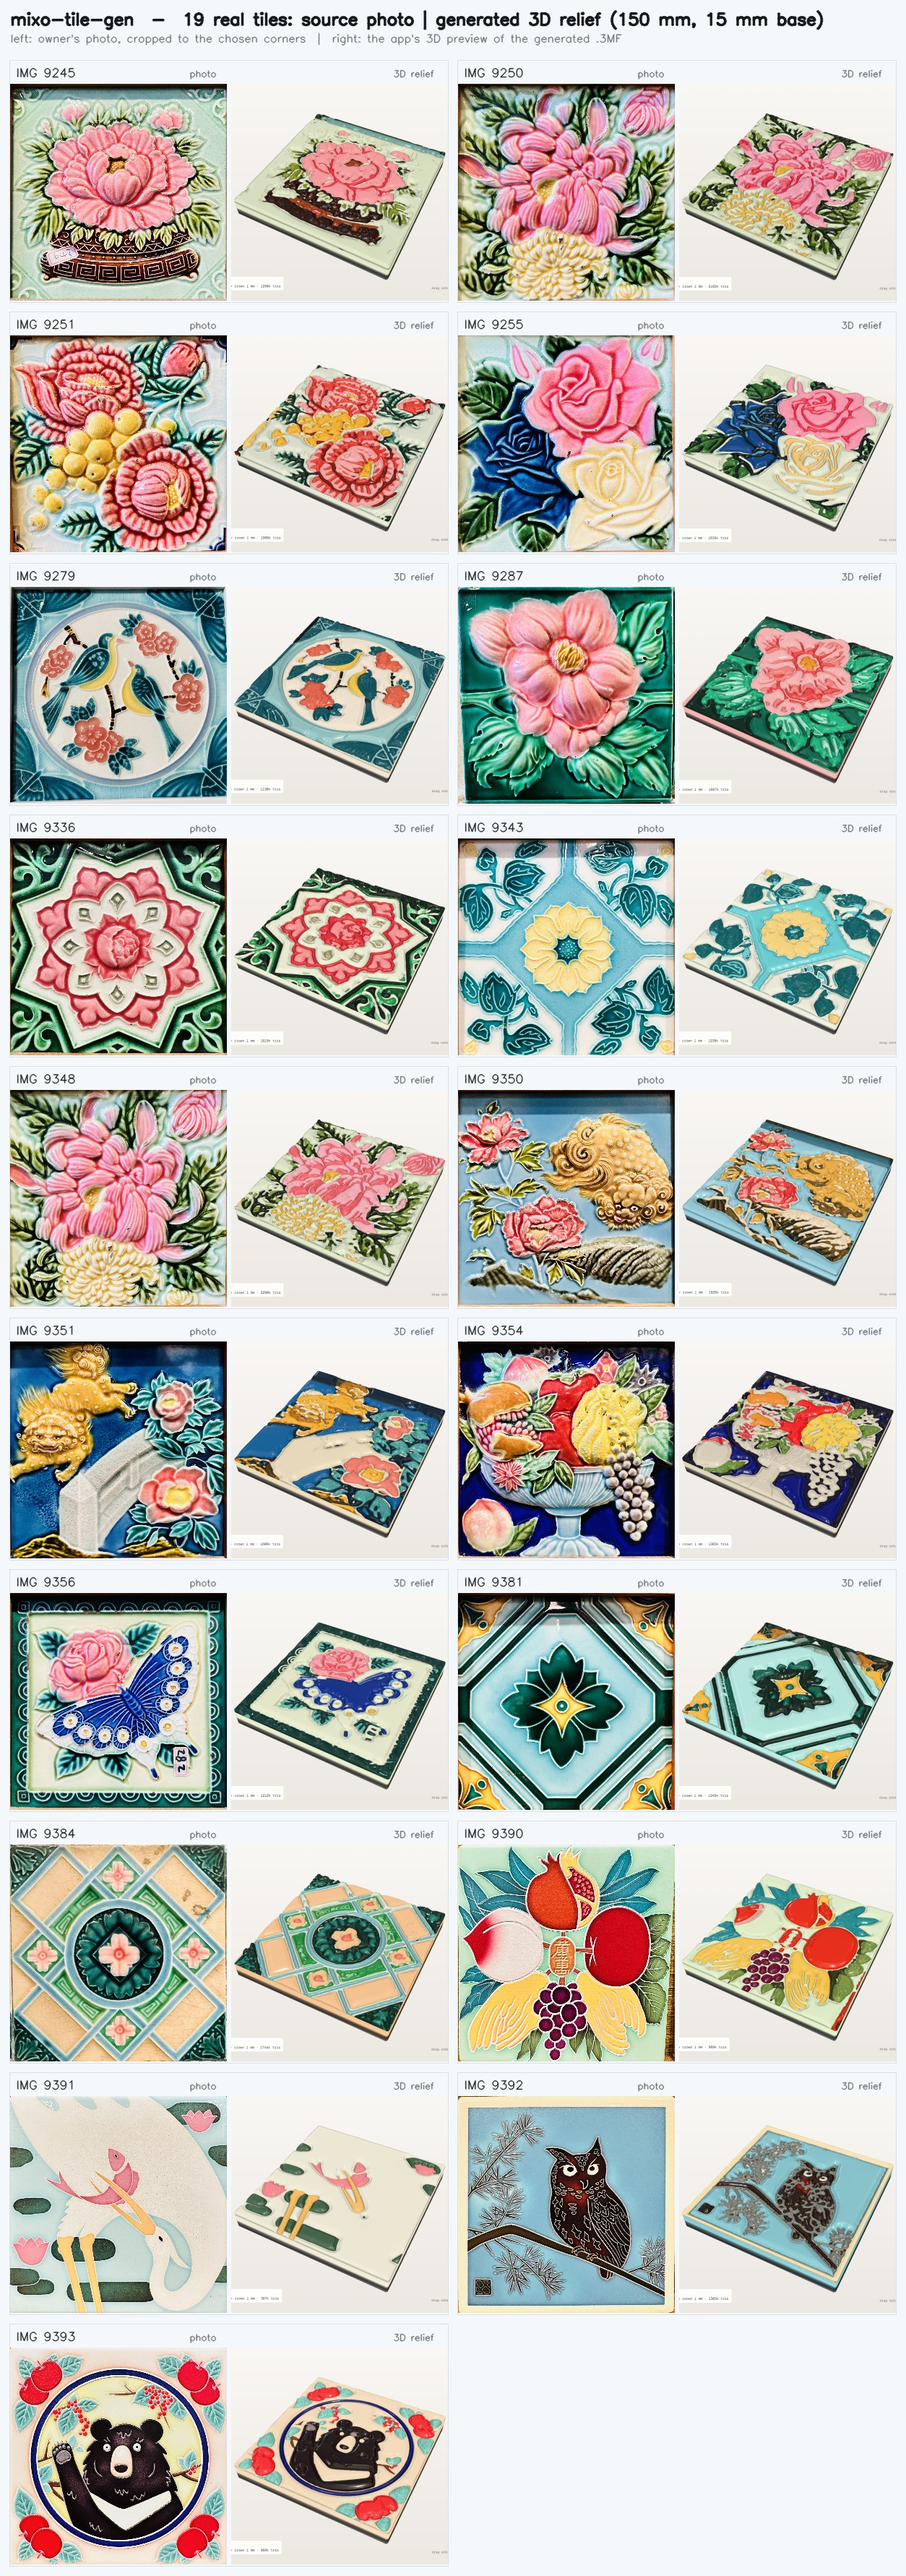
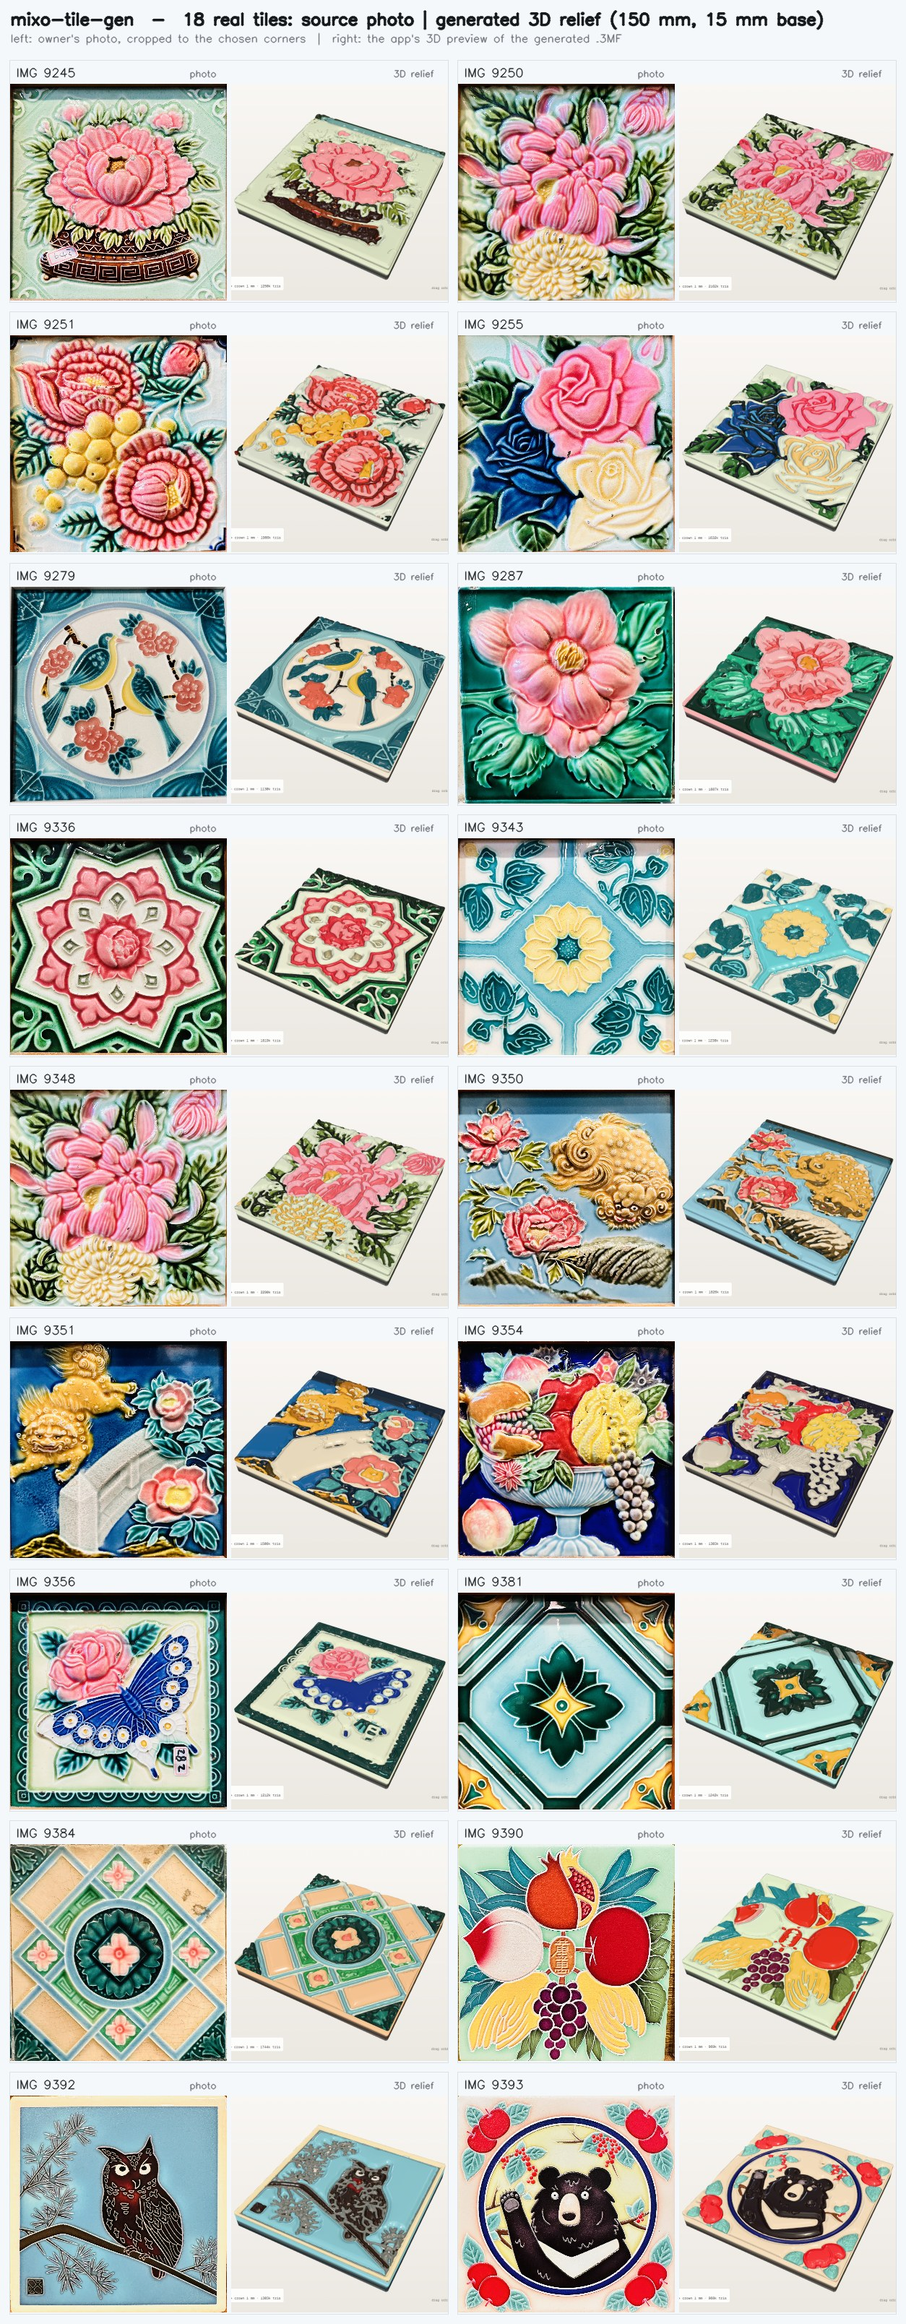
Remove IMG_9391 from the fixture set (owner); corners confirmed; table now 18 tiles
Claude-Session: https://claude.ai/code/session_01G1L4cLyWYamcJ8dUm4iyXZ

diff --git a/HANDOFF.md b/HANDOFF.md
@@ -97,6 +97,8 @@ The owner doesn't care about slicer testing. Visual realism is the goal.
 
 ## 4. Status log (newest first)
 
+- **2026-10-15, owner decisions:** corners for the fixture set confirmed by the owner; IMG_9391 (heron) removed from the set at the owner's request (now 18 photos); old empty GCP project `tw-tile-gen` (mixoadrian) deleted (DELETE_REQUESTED, recoverable 30 days).
+
 - **2026-10-15, textured exports + command line:** new formats `3mftex` (3MF Materials-extension texture2dgroup per corner; slicer part table unchanged so it prints in glaze colours) and `glbtex` (trimesh PBR baseColorTexture); pad stays plain. `tests/check_formats.py` checks all (IMG_9255: corner-UV error 0.00001; three.js 3MFLoader renders the textured 3MF). App menu groups formats by Glaze colours / Photo texture. **`scripts/mixo.py`** (+ `mixo.bat`, `mixo.sh`): command line without the web page, local (re-runs itself in `.venv`) or `--server URL`, `--corners`, `--corners-json` batch, `--set name=value`; tested local single + batch. README: "Without the web page" guide + with/without-UI × online/local table. Live site verified after the memory fix: 2 tiles in a row OK on cloud.
 
 - **2026-10-15, new fixture set + Photo preview + cloud memory/speed:**
@@ -219,9 +221,7 @@ The owner doesn't care about slicer testing. Visual realism is the goal.
 ## 5. In-flight / next steps
 
 **Owner's open requests (2026-10-15), in order:**
-1. Owner to confirm the 19 fixture corners (sheet sent; `real_tiles/corners.json`).
 2. Re-render the photo-vs-render table `docs/results/all_tiles.jpg` from the new photos (Playwright: load each photo, drag corners from `corners.json`, generate, screenshot `#viewer` to `previews/user_<name>.png`, then `backend/tests/make_table.py previews docs/results/all_tiles.jpg`).
-3. Ask the owner whether to delete the empty GCP project `tw-tile-gen` (mixoadrian).
 
 0. **Outlines, known limits to improve:** (a) glossy modelled glaze still yields highlight streaks (06 lion mane, 07 petal ridges) — candidates: both-flank symmetry test, structure-tensor orientation coherence; (b) a tube-line that coincides with a colour seam is drawn only by the groove (ridge faded within 1.6 mm of seams) — a dedicated line body would be needed to raise it; (c) 0.3–0.5 mm hair lines are below the 0.4 mm width gate by design; (d) `compare.py`/`check_labels.py` in `tests/out/user` still read their own folder.
 1. **Apply the Fable photo report.** Prototype: `docs/research/photo_proto.py`. Before/after sheet: `docs/research/photo_before_after.jpg`, with columns photo | current | glare+meanshift k=6 | auto-k + L-weight. Ranked:

diff --git a/README.md b/README.md
@@ -376,7 +376,7 @@ curl -F image=@my-tile.jpg -F 'corners=[[510,564],[2616,534],[2514,2508],[594,24
 
 ## Tests and verification
 
-Tests use **only the owner's hand-picked photos**: 19 shots in `backend/tests/fixtures/real_tiles/originals/`, with their tile corners in `real_tiles/corners.json` (see the README there). Every pipeline change must pass on all of them:
+Tests use **only the owner's hand-picked photos**: 18 shots in `backend/tests/fixtures/real_tiles/originals/`, with their tile corners in `real_tiles/corners.json` (see the README there). Every pipeline change must pass on all of them:
 
 ```bash
 cd backend
@@ -391,7 +391,7 @@ python tests/lines_sheet.py                    # visual sheet: photo | outlines 
 ## Known limits
 
 - **Auto-outline:** the AI only suggests the corners. On framed tiles it sometimes grabs a sliver of the wooden frame (seen on IMG_9255 and IMG_9343 in the tests). Always check the four corners and drag any that are off.
-- **Low-contrast tiles:** a white motif on a pale background (the heron, IMG_9391) can merge into one colour. Picking the colours yourself with the eyedropper (heron white and the pale-blue water) may keep them apart.
+- **Low-contrast tiles:** a white motif on a pale background can merge into one colour. Picking the colours yourself with the eyedropper (heron white and the pale-blue water) may keep them apart.
 - **Glossy, painterly glazes** can still split into small patches. Examples: the shiny rose leaves and the lion's mane.
 - **Stickers** on the glaze (e.g. "61", "75") become relief. The glare/sticker inpaint is implemented but off by default, because it also erased real white glaze.
 

diff --git a/backend/tests/fixtures/README.md b/backend/tests/fixtures/README.md
@@ -2,22 +2,22 @@
 
 **Use only these photos for testing.** The owner picked them by hand (2026-10-15) and removed everything else (the earlier 16-tile set and the Wikimedia museum crops). Don't add other images, and don't delete, move or edit these.
 
-## `real_tiles/originals/`: 19 photos, `IMG_9245.jpg` … `IMG_9393.jpg` (3024 × 3024)
+## `real_tiles/originals/`: 18 photos, `IMG_9245.jpg` … `IMG_9393.jpg` (3024 × 3024)
 
 | Kind | Photos |
 |---|---|
 | Framed museum tiles | 9245, 9250, 9251, 9255, 9336, 9343, 9348, 9350, 9351, 9354, 9356, 9381 |
 | Framed with a white mat | 9279 |
 | Tiles on a wall (one tile is used) | 9287 (large flower), 9384 (centre medallion) |
-| Coasters standing on a shelf | 9390, 9391, 9392, 9393 |
+| Coasters standing on a shelf | 9390, 9392, 9393 |
 
 ## `real_tiles/corners.json`
 
 `{"IMG_9245": [[x, y] TL, TR, BR, BL], ...}`, the glaze corners **in the photo's own pixels**. `process_tile` takes them as they are.
 
-- 10 were proposed automatically (the opening inside the wooden frame).
-- 9 were read off gridded views by eye: 9251, 9279, 9287, 9343, 9351, 9381, 9384, 9390, 9392.
-- All 19 were checked by flattening each photo with its corners and looking for wood or a neighbouring tile at the edges.
+- The rest were proposed automatically (the opening inside the wooden frame).
+- 9 were read off gridded views by eye: 9251, 9279, 9287, 9343, 9351, 9381, 9384, 9390, 9392. (IMG_9391, the heron, was removed by the owner.)
+- All were checked by flattening each photo with its corners and looking for wood or a neighbouring tile at the edges.
 
 ## Scripts that use them
 

diff --git a/AGENTS.md b/AGENTS.md
@@ -5,7 +5,7 @@ Keep `HANDOFF.md` up to date at every key step: add to the Status log and refres
 
 Rules:
 - Don't regress the design decisions in HANDOFF section 3. The owner arrived at them over many iterations.
-- **Test images: only the owner's hand-picked photos** in `backend/tests/fixtures/real_tiles/originals/` (19 `IMG_*.jpg`, corners in `real_tiles/corners.json`, photo pixels). Never use or add other images (no synthetic samples, no museum crops). Never delete, move or edit those files; if they change, the owner is curating them, so ask before restoring anything.
+- **Test images: only the owner's hand-picked photos** in `backend/tests/fixtures/real_tiles/originals/` (18 `IMG_*.jpg`, corners in `real_tiles/corners.json`, photo pixels). Never use or add other images (no synthetic samples, no museum crops). Never delete, move or edit those files; if they change, the owner is curating them, so ask before restoring anything.
 - Every pipeline change must pass on all of those photos before reporting: `python tests/run_real.py` (every body watertight) and `python tests/check_formats.py IMG_9255` (all download formats). Look at a photo-vs-result sheet too (`tests/lines_sheet.py`, or `tests/make_table.py` from app screenshots).
 - The AI (MediaPipe auto-outline) only **suggests** corners: the person always confirms or adjusts them, and the app must keep working without the AI.
 - Keep the defaults in `TileConfig`, the `main.py` Form defaults and the `frontend/index.html` inputs in sync.
